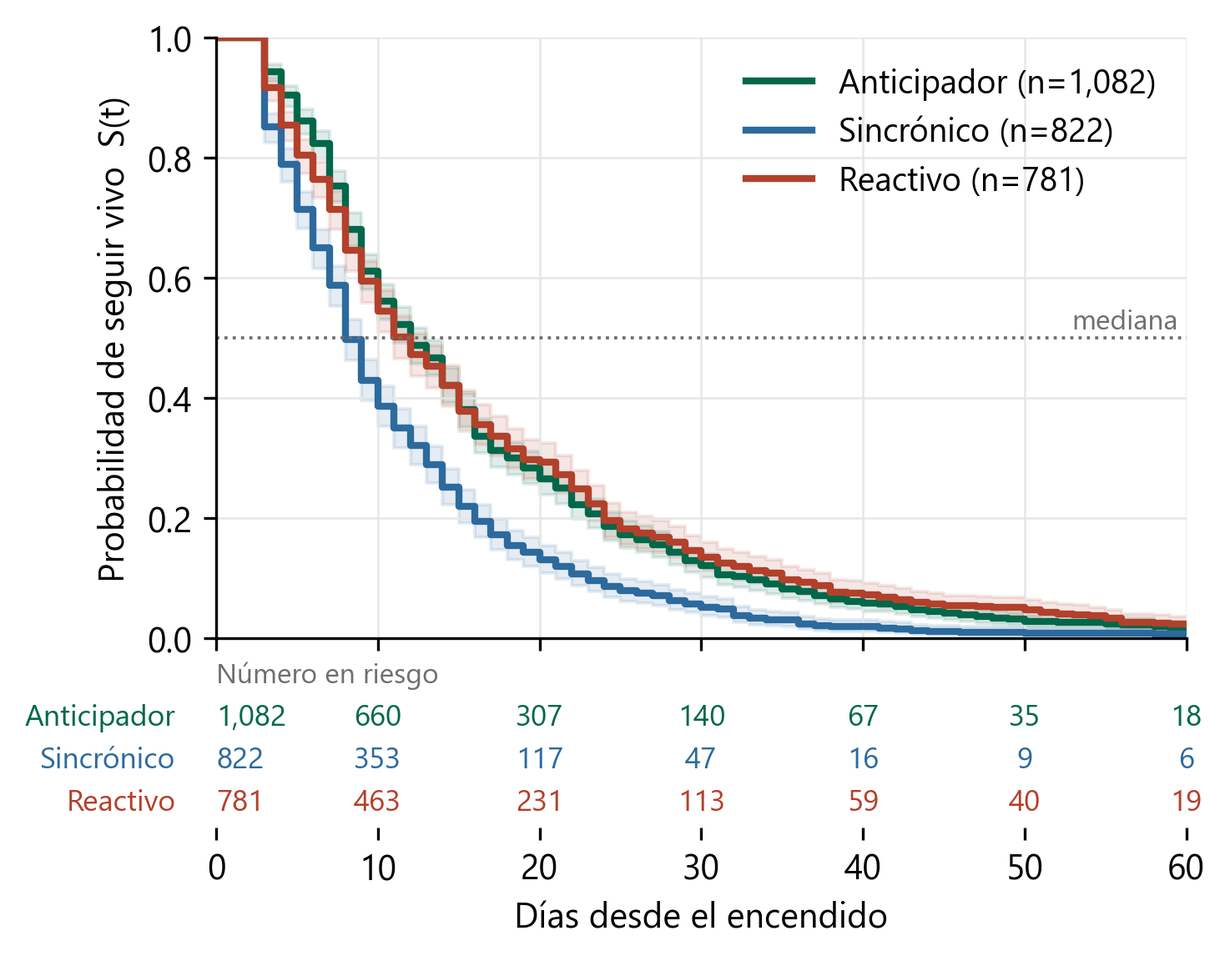
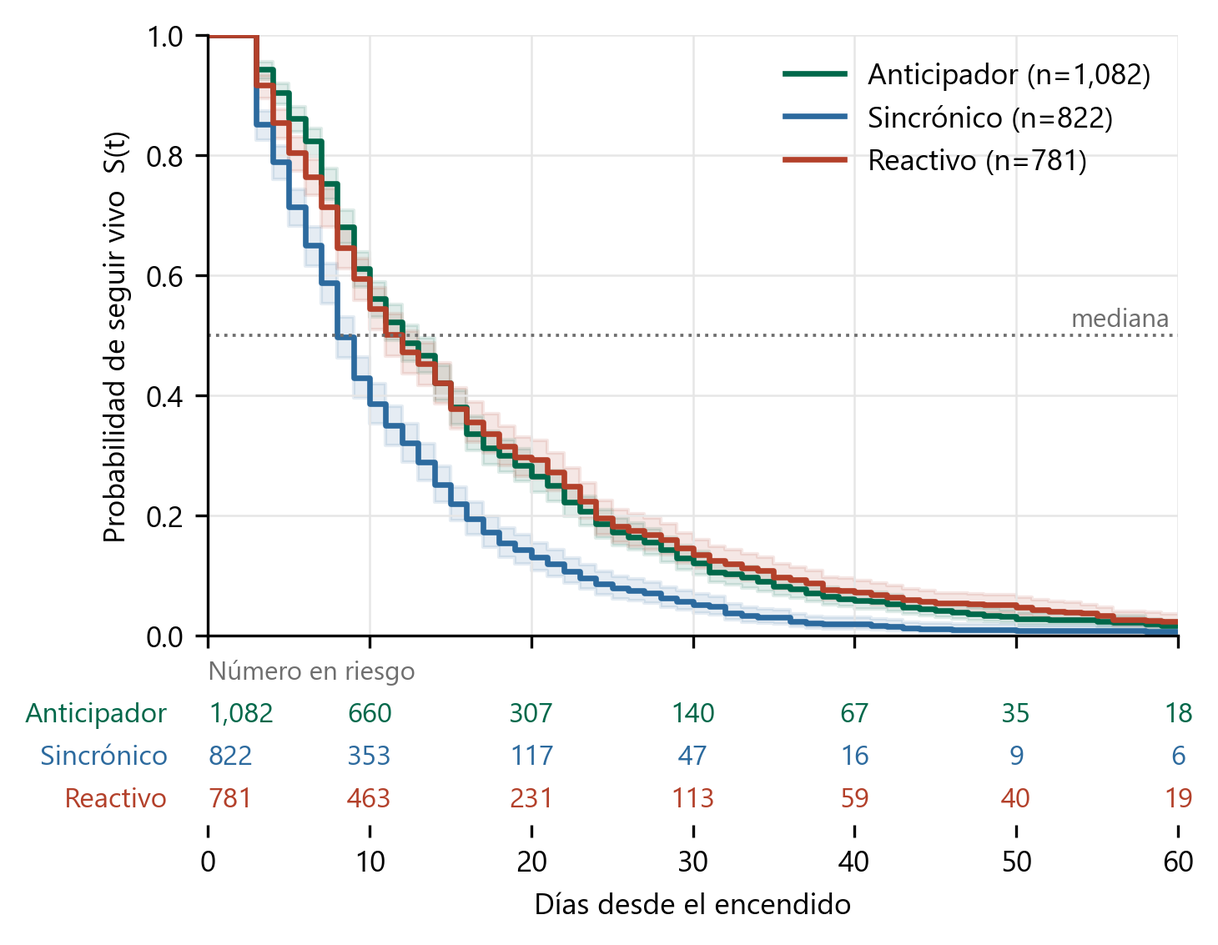
Figuras: letra de ejes y leyendas a 8.5 pt y lineas mas delgadas; fuente_figuras busca Segoe UI en Fonts/

diff --git a/10_figuras_manuscrito/figuras_manuscrito.py b/10_figuras_manuscrito/figuras_manuscrito.py
@@ -46,6 +46,9 @@ sys.path.insert(0, str(Path(__file__).resolve().parents[1] / 'herramientas'))
 from fuente_figuras import fuente_figuras  # Segoe UI si esta en la carpeta local, si no DejaVu Sans (version 064)
 CURSIVA = fuente_figuras()
 plt.rcParams.update({'axes.spines.top': False, 'axes.spines.right': False, 'savefig.dpi': 300})
+# Version 069 (19-oct-2026): letra de ejes y leyendas mas chica y lineas mas delgadas, a pedido del autor.
+# Marcas, rotulos de eje y leyendas a 8.5 pt (antes 10, el valor por omision); rotulos comunes de figura a 10 pt (antes 12).
+plt.rcParams.update({'xtick.labelsize': 8.5, 'ytick.labelsize': 8.5, 'axes.labelsize': 8.5, 'legend.fontsize': 8.5, 'figure.labelsize': 10})
 CIFRAS = []
 # Formato comun (18-oct-2026, version 064): coma de miles en los ejes y fechas en espanol (mes abreviado y ano a dos cifras).
 MESES_ES = ['ene', 'feb', 'mar', 'abr', 'may', 'jun', 'jul', 'ago', 'sep', 'oct', 'nov', 'dic']
@@ -92,15 +95,15 @@ def fig_3_2():
     for j, (tk, titulo) in enumerate([('AAL', 'AAL (ticker típico\ndel padrón)'), ('GME', 'GME (ticker denso\nde la era meme)')]):
         x = s[tk].values.astype(float); mu, sd = x.mean(), x.std(ddof=1); asim = stats.skew(x)
         ax = axs[0, j]; n, bins, _ = ax.hist(x, bins=50, color='#3E8E75', edgecolor='white', lw=0.4)
-        xx = np.linspace(x.min(), x.max(), 400); yy = stats.norm.pdf(xx, mu, sd) * len(x) * (bins[1] - bins[0]); ax.plot(xx[yy >= 0.6], yy[yy >= 0.6], color=ROJO, lw=2, label='normal ajustada')
-        ax.set_yscale('log'); ax.set_ylim(0.6, n.max() * 6); ax.set_title(titulo, color=VERDE2, fontweight='bold', fontsize=11)
+        xx = np.linspace(x.min(), x.max(), 400); yy = stats.norm.pdf(xx, mu, sd) * len(x) * (bins[1] - bins[0]); ax.plot(xx[yy >= 0.6], yy[yy >= 0.6], color=ROJO, lw=1.6, label='normal ajustada')
+        ax.set_yscale('log'); ax.set_ylim(0.6, n.max() * 6); ax.set_title(titulo, color=VERDE2, fontweight='bold', fontsize=9.5)
         ax.xaxis.set_major_locator(MaxNLocator(3)); ax.xaxis.set_major_formatter(MILES)
         ax.set_xlabel('menciones diarias'); ax.set_ylabel('días (escala log)'); ax.legend(frameon=False, loc='upper right', handlelength=1.0, borderaxespad=0.2)
-        ax.text(0.97, 0.72, f'media {mu:,.1f}\nmáximo {int(x.max()):,}\nasimetría {asim:.1f}', transform=ax.transAxes, ha='right', va='top', color=GRIS, fontsize=9)
+        ax.text(0.97, 0.72, f'media {mu:,.1f}\nmáximo {int(x.max()):,}\nasimetría {asim:.1f}', transform=ax.transAxes, ha='right', va='top', color=GRIS, fontsize=8)
         ax = axs[1, j]; (osm, osr), (slope, intercept, _) = stats.probplot(x, dist='norm')
         ax.plot(osm, osr, '.', color=VERDE2, ms=4); ax.plot(osm, slope * osm + intercept, color=ROJO, lw=1.5, label='recta normal\nteórica')
         ax.yaxis.set_major_formatter(MILES)
-        ax.set_title(f'QQ contra la normal: {tk}', color=VERDE2, fontsize=11); ax.set_xlabel('cuantiles teóricos\nde la normal'); ax.set_ylabel('cuantiles observados'); ax.legend(frameon=False, loc='upper left', handlelength=1.0)
+        ax.set_title(f'QQ contra la normal: {tk}', color=VERDE2, fontsize=9.5); ax.set_xlabel('cuantiles teóricos\nde la normal'); ax.set_ylabel('cuantiles observados'); ax.legend(frameon=False, loc='upper left', handlelength=1.0)
         cifra('3.2', f'{tk} media / maximo / asimetria', f'{mu:.1f} / {int(x.max())} / {asim:.1f}')
     fig.tight_layout(); fig.savefig(FIG / 'figura_3_2.png'); plt.close(fig)
 
@@ -120,7 +123,7 @@ def fig_4_2():
     ax.text(fin - pd.Timedelta(hours=12), 1400, f'extinción ({fin.day}-feb)', rotation=90, ha='right', va='center', fontsize=7.5, color='#444444')   # a la izquierda de su linea (version 067)
     ax.text(fin + pd.Timedelta(days=2), tot.max(), f'{int(tot.max()):,} menciones', va='center', fontsize=8, color=ROJO)
     ax.text(pd.Timestamp('2021-02-08'), base / 1.12, f'base previa (μ = {base:,.0f})', va='top', fontsize=7.5, color='#2F5F8F')   # junto a su linea (version 064; desde el 8-feb en la version 067)
-    ax.set_ylabel('Menciones diarias en Reddit\n(escala log)', fontsize=9); ax.grid(color='#E8E8E8', lw=0.6); ax.set_axisbelow(True)
+    ax.set_ylabel('Menciones diarias en Reddit\n(escala log)', fontsize=8.5); ax.grid(color='#E8E8E8', lw=0.6); ax.set_axisbelow(True)
     ax.xaxis.set_major_locator(mdates.MonthLocator()); ax.xaxis.set_major_formatter(FuncFormatter(lambda v, p: mes_anio(mdates.num2date(v))))
     fig.tight_layout(); fig.savefig(FIG / 'figura_4_2.png'); plt.close(fig)
     cifra('4.2', 'pico (fecha, menciones)', f'{tot.idxmax().date()}, {int(tot.max()):,}'); cifra('4.2', 'duracion / menciones acumuladas (catalogo)', f'{ev.duracion_dias} / {int(ev.menciones_evento):,}')
@@ -146,18 +149,18 @@ def fig_4_3():
     ins, t = trayectorias()
     fig, ax = plt.subplots(figsize=(4.72, 4.6))   # antes (8.9, 5.5); version 067: leyenda bajo el grafico, rotulo y y textos en mas lineas
     med = t.groupby('dia').indice.median(); n_act = t.groupby('dia').size()
-    for tk, g in t.groupby('ticker'): ax.plot(g.dia, g.indice, color=VERDE_CLARO, lw=0.8, alpha=0.8, zorder=1)
-    ax.plot(med.index[n_act >= 10], med[n_act >= 10], color=VERDE, lw=3, label='mediana de los eventos activos', zorder=4)
+    for tk, g in t.groupby('ticker'): ax.plot(g.dia, g.indice, color=VERDE_CLARO, lw=0.6, alpha=0.8, zorder=1)   # lineas mas delgadas (version 069)
+    ax.plot(med.index[n_act >= 10], med[n_act >= 10], color=VERDE, lw=2.2, label='mediana de los eventos activos', zorder=4)
     # MSFT en azul (11-oct-2026, version 058) para distinguirla de la mediana verde; los datos no cambian.
     for tk, etiqueta, color in [('GME', 'GME (ene-21)', ROJO), ('MSFT', 'MSFT (precio plano,\n93 días naturales)', '#2F5F8F'), ('BA', 'BA (mar-20, cayendo)', '#8A6D0B')]:
-        g = t[t.ticker == tk]; ax.plot(g.dia, g.indice, color=color, lw=2.2, label=etiqueta, zorder=3)
+        g = t[t.ticker == tk]; ax.plot(g.dia, g.indice, color=color, lw=1.5, label=etiqueta, zorder=3)
     ax.axhline(100, color='#333333', ls=':', lw=1); ax.set_yscale('log'); ax.set_xlim(0, 90)   # el evento de RDDT (247 sesiones) se corta a los 90 dias
     ax.set_yticks([50, 100, 200, 400, 800, 1600]); ax.set_yticklabels(['50', '100', '200', '400', '800', '1,600']); ax.minorticks_off()
     ax.set_xlabel('días de trading desde el encendido del evento'); ax.set_ylabel('índice de retorno acumulado\n(base 100 al encendido, escala log)')
     ax.legend(frameon=False, loc='upper center', bbox_to_anchor=(0.5, -0.16), ncol=2, handlelength=1.5, columnspacing=1.2)
     cierre = t.groupby('ticker').indice.last() - 100; maximo = t.groupby('ticker').indice.max() - 100; caida = (maximo - cierre >= 10).sum()
     ax.text(0.99, 0.99, f'cierre mediano {cierre.median():+.0f} puntos\nmáximo intra-evento mediano {maximo.median():+.0f} puntos\n{caida} de {len(cierre)} eventos cierran al menos\n10 puntos bajo su máximo',
-            transform=ax.transAxes, ha='right', va='top', fontsize=9, color=GRIS)   # arriba a la derecha, zona sin trayectorias (version 067)
+            transform=ax.transAxes, ha='right', va='top', fontsize=8, color=GRIS)   # arriba a la derecha, zona sin trayectorias (version 067)
     fig.tight_layout(); fig.savefig(FIG / 'figura_4_3.png'); plt.close(fig)
     cifra('4.3', 'eventos con trayectoria', len(cierre)); cifra('4.3', 'cierre mediano (puntos)', round(cierre.median(), 1)); cifra('4.3', 'maximo intra-evento mediano (puntos)', round(maximo.median(), 1))
     cifra('4.3', 'cierran >= 10 puntos bajo su maximo', f'{caida} de {len(cierre)}')
@@ -196,7 +199,7 @@ def fig_5_1():
         for j in range(12):
             if not np.isnan(M[i, j]): ax.text(j, i, int(M[i, j]), ha='center', va='center', fontsize=8, color='white' if M[i, j] > 0.6 * np.nanmax(M) else '#333333')
     for s in ax.spines.values(): s.set_visible(False)
-    cb = fig.colorbar(im, ax=ax, fraction=0.04, pad=0.02); cb.set_label('Eventos encendidos')
+    cb = fig.colorbar(im, ax=ax, fraction=0.04, pad=0.02); cb.set_label('Eventos encendidos', fontsize=8); cb.ax.tick_params(labelsize=7.5)   # escala 0 a 300 mas chica (version 069)
     fig.tight_layout(); fig.savefig(FIG / 'figura_5_1.png'); plt.close(fig)
     cifra('5.1', 'mes maximo', f'{int(m.stack().idxmax()[0])}-{int(m.stack().idxmax()[1]):02d} con {int(m.values.max())} encendidos'); cifra('5.1', 'total', int(m.values.sum()))
 
@@ -209,8 +212,8 @@ COCIENTES_5_5 = {'Reddit': 4.2, 'YouTube': 6.0, 'TikTok': 6.2, 'StockTwits': 6.9
 def fig_5_6():
     plats = list(COCIENTES_5_5); vals = [COCIENTES_5_5[p] for p in plats]
     fig, ax = plt.subplots(figsize=(4.72, 2.9))   # antes (6.1, 3.2); version 067
-    ax.scatter(vals, range(len(plats)), s=140, color=VERDE2, zorder=3)
-    for i, v in enumerate(vals): ax.text(v + 0.55, i, f'{v:.1f}', va='center', fontsize=9)   # separacion 0.55 (antes 0.3) para no tocar el punto (version 067)
+    ax.scatter(vals, range(len(plats)), s=110, color=VERDE2, zorder=3)
+    for i, v in enumerate(vals): ax.text(v + 0.55, i, f'{v:.1f}', va='center', fontsize=8.5)   # separacion 0.55 (antes 0.3) para no tocar el punto (version 067)
     ax.axvline(1, color='#333333', ls=':', lw=1); ax.text(1, len(plats) - 0.55, 'paridad', ha='center', va='bottom', fontsize=7, color=GRIS)
     ax.set_yticks(range(len(plats))); ax.set_yticklabels(plats, color=GRIS); ax.set_xlim(0, 16.5); ax.grid(color='#E8E8E8', lw=0.8); ax.set_axisbelow(True)
     ax.set_xlabel('Mensajes de compra por cada mensaje de venta')
@@ -224,8 +227,8 @@ def fig_6_1():
     fig, ax = plt.subplots(figsize=(4.72, 2.4))   # antes (5.9, 2.7); version 067
     for i, r in enumerate(d.itertuples()):
         hr, lo, hi = r._4, r._8, r._9
-        ax.plot([lo, hi], [i, i], color=VERDE2, lw=2.2); ax.plot(hr, i, 'o', color=ROJO, ms=9)
-        ax.text(hi + 0.08, i, f'{hr:.2f} [{lo:.2f}, {hi:.2f}]', va='center', fontsize=9)
+        ax.plot([lo, hi], [i, i], color=VERDE2, lw=1.8); ax.plot(hr, i, 'o', color=ROJO, ms=7.5)
+        ax.text(hi + 0.08, i, f'{hr:.2f} [{lo:.2f}, {hi:.2f}]', va='center', fontsize=8.5)
         cifra('6.1', f'HR de D, kappa {r.kappa:.2f}', f'{hr:.2f} [{lo:.2f}, {hi:.2f}]')
     ax.axvline(1, color='#444444', ls='--', lw=1); ax.set_yticks(range(3)); ax.set_yticklabels([f'κ = {v:.2f}' for v in d.kappa], color=GRIS)
     ax.set_xlim(0.8, 4.4); ax.set_xlabel('HR del desacuerdo D (IC 95%)'); ax.grid(color='#E8E8E8', lw=0.8); ax.set_axisbelow(True)
@@ -240,13 +243,13 @@ def _hist_20(cols, salida, figura):
         bins = np.linspace(0, max(lx.max(), 0.31), 26)
         ax.hist(lx, bins=bins, color=VERDE2, edgecolor='white', lw=0.3); ax.set_yscale('log'); ax.set_ylim(0.7, None)
         # Version 067: ticker (a la izquierda, sobre las marcas del eje y) y asimetria (a la derecha) en una linea sobre el panel, no sobre las barras
-        ax.annotate(tk, xy=(0, 1), xycoords='axes fraction', xytext=(-20, 4), textcoords='offset points', ha='left', va='bottom', color=VERDE2, fontweight='bold', fontsize=10)
-        ax.annotate(f'asim. {asim:.0f}', xy=(1, 1), xycoords='axes fraction', xytext=(0, 4), textcoords='offset points', ha='right', va='bottom', color=GRIS, fontsize=8.5)
+        ax.annotate(tk, xy=(0, 1), xycoords='axes fraction', xytext=(-20, 4), textcoords='offset points', ha='left', va='bottom', color=VERDE2, fontweight='bold', fontsize=8.5)
+        ax.annotate(f'asim. {asim:.0f}', xy=(1, 1), xycoords='axes fraction', xytext=(0, 4), textcoords='offset points', ha='right', va='bottom', color=GRIS, fontsize=7.5)
         # Marcas del eje segun el rango, para que no se encimen ni queden barras sin referencia (version 064)
         # Version 067: menos marcas (sin el 1 cuando el rango pasa de 100, sin el 100 cuando pasa de 1,000) y potencias de 10 como en el eje y
         tope = 10 ** bins[-1] - 1; cand = [0, 100, 10000] if tope >= 10000 else [0, 10, 1000] if tope >= 1000 else [0, 10, 100] if tope >= 100 else ([0, 1, 10] if tope >= 10 else [0, 1, 2, 5])
-        ticks = [v for v in cand if np.log10(1 + v) <= bins[-1] + 1e-9]; ax.set_xticks([np.log10(1 + v) for v in ticks]); ax.set_xticklabels([{100: '10²', 1000: '10³', 10000: '10⁴'}.get(v, f'{v:,}') for v in ticks], fontsize=7.5)
-        ax.set_yticks([1, 10, 100, 1000]); ax.set_yticklabels(['1', '10', '10²', '10³'], fontsize=8); ax.minorticks_off(); ax.grid(axis='y', color='#EEEEEE', lw=0.6); ax.set_axisbelow(True)
+        ticks = [v for v in cand if np.log10(1 + v) <= bins[-1] + 1e-9]; ax.set_xticks([np.log10(1 + v) for v in ticks]); ax.set_xticklabels([{100: '10²', 1000: '10³', 10000: '10⁴'}.get(v, f'{v:,}') for v in ticks], fontsize=7)
+        ax.set_yticks([1, 10, 100, 1000]); ax.set_yticklabels(['1', '10', '10²', '10³'], fontsize=7); ax.minorticks_off(); ax.grid(axis='y', color='#EEEEEE', lw=0.6); ax.set_axisbelow(True)
         cifra(figura, f'{tk} asimetria', round(asim, 1))
     fig.supxlabel('Menciones diarias (escala logarítmica, 1 + menciones)'); fig.supylabel('Días (escala logarítmica)')
     fig.tight_layout(); fig.savefig(FIG / salida); plt.close(fig)

diff --git a/05_precios_y_supervivencia/figuras_supervivencia.py b/05_precios_y_supervivencia/figuras_supervivencia.py
@@ -20,6 +20,8 @@ import sys; sys.path.insert(0, str(Path(__file__).resolve().parents[1] / 'herram
 from fuente_figuras import fuente_figuras  # Segoe UI si esta en la carpeta local, si no DejaVu Sans (version 064)
 fuente_figuras()
 plt.rcParams.update({'axes.spines.top': False, 'axes.spines.right': False})
+# Version 069 (19-oct-2026): letra de ejes y leyendas mas chica y lineas mas delgadas, a pedido del autor.
+plt.rcParams.update({'xtick.labelsize': 8.5, 'ytick.labelsize': 8.5, 'axes.labelsize': 8.5})
 
 # --- Figura 5.3: Kaplan-Meier por acoplamiento, bandas de Greenwood y numero en riesgo ---------------------------------------
 sup = pd.read_csv(SUP / 'tabla_supervivencia.csv', keep_default_na=False, na_values=[''])
@@ -30,18 +32,18 @@ ax = fig.add_subplot(gs[0]); axr = fig.add_subplot(gs[1], sharex=ax)
 kms, ticks = {}, np.arange(0, 61, 10)
 for g, etiqueta, color in GRUPOS:
     d = sup[sup.acoplamiento == g]; km = KaplanMeierFitter().fit(d.duracion_dias, d.evento_observado, label=f'{etiqueta} (n={len(d):,})')
-    km.plot_survival_function(ax=ax, color=color, ci_show=True, ci_alpha=0.12, linewidth=2.0); kms[g] = (km, d, color, etiqueta)
-ax.axhline(0.5, color=GRIS, linestyle=':', linewidth=0.9); ax.text(59.5, 0.515, 'mediana', color=GRIS, fontsize=8, ha='right')
-ax.set_xlim(0, 60); ax.set_ylim(0, 1.0); ax.set_ylabel('Probabilidad de seguir vivo  S(t)', fontsize=10); ax.set_xlabel('')
-ax.grid(axis='both', color='#E6E6E6', linewidth=0.6); ax.legend(frameon=False, fontsize=9.5, loc='upper right'); plt.setp(ax.get_xticklabels(), visible=False)
-axr.set_ylim(-0.6, 3.4); axr.set_yticks([]); axr.set_xticks(ticks); axr.set_xlabel('Días desde el encendido', fontsize=10)
+    km.plot_survival_function(ax=ax, color=color, ci_show=True, ci_alpha=0.12, linewidth=1.6); kms[g] = (km, d, color, etiqueta)
+ax.axhline(0.5, color=GRIS, linestyle=':', linewidth=0.9); ax.text(59.5, 0.515, 'mediana', color=GRIS, fontsize=7.5, ha='right')
+ax.set_xlim(0, 60); ax.set_ylim(0, 1.0); ax.set_ylabel('Probabilidad de seguir vivo  S(t)', fontsize=8.5); ax.set_xlabel('')
+ax.grid(axis='both', color='#E6E6E6', linewidth=0.6); ax.legend(frameon=False, fontsize=8.5, loc='upper right'); plt.setp(ax.get_xticklabels(), visible=False)
+axr.set_ylim(-0.6, 3.4); axr.set_yticks([]); axr.set_xticks(ticks); axr.set_xlabel('Días desde el encendido', fontsize=8.5)
 for s_ in ['left', 'top', 'right', 'bottom']: axr.spines[s_].set_visible(False)
-axr.text(0, 3.0, 'Número en riesgo', color=GRIS, fontsize=8, va='center', ha='left')
+axr.text(0, 3.0, 'Número en riesgo', color=GRIS, fontsize=7.5, va='center', ha='left')
 for fila, (g, etiqueta, color) in enumerate(GRUPOS):
     km, d, color, etiqueta = kms[g]; y = 2 - fila
-    axr.text(-2.5, y, etiqueta, color=color, fontsize=8.5, ha='right', va='center', clip_on=False)
+    axr.text(-2.5, y, etiqueta, color=color, fontsize=8, ha='right', va='center', clip_on=False)
     for t in ticks:
-        en_riesgo = int((d.duracion_dias >= t).sum()) if t > 0 else len(d); axr.text(t, y, f'{en_riesgo:,}', color=color, fontsize=8.5, ha='center' if t > 0 else 'left', va='center', clip_on=False)
+        en_riesgo = int((d.duracion_dias >= t).sum()) if t > 0 else len(d); axr.text(t, y, f'{en_riesgo:,}', color=color, fontsize=8, ha='center' if t > 0 else 'left', va='center', clip_on=False)
 fig.savefig(FIG / 'figura_km_acoplamiento_v2.png', dpi=300, bbox_inches='tight'); plt.close(fig)
 medianas = {g: kms[g][0].median_survival_time_ for g, _, _ in GRUPOS}; print('KM medianas:', medianas)
 
@@ -61,9 +63,9 @@ for i, (cov, nombre) in enumerate(NOMBRE):
         ax.plot(r['exp(coef)'], y0 + dy, marker=marca, color=color, markersize=6, linestyle='none', label=etiqueta if i == 0 else None)
 ax.axvline(1, color='#333333', linestyle='--', linewidth=1); ax.set_xscale('log')
 ax.set_xticks([0.5, 0.7, 1.0, 1.5, 2.0, 3.0]); ax.xaxis.set_major_formatter(matplotlib.ticker.FormatStrFormatter('%.1f')); ax.xaxis.set_minor_formatter(matplotlib.ticker.NullFormatter()); ax.set_xlim(0.5, 3.0)
-ax.set_yticks(range(len(NOMBRE))); ax.set_yticklabels([n for _, n in NOMBRE][::-1], fontsize=9.5); ax.grid(axis='y', color='#E6E6E6', linewidth=0.6)
-ax.set_xlabel('Hazard ratio (escala log, IC 95%)', fontsize=10)
-ax.text(0.72, len(NOMBRE) + 0.02, '← retrasa\nla extinción', color=VERDE, fontsize=9, ha='center', va='center'); ax.text(1.75, len(NOMBRE) + 0.02, 'acelera\nla extinción →', color=ROJO, fontsize=9, ha='center', va='center')
-ax.set_ylim(-0.6, len(NOMBRE) + 0.55); ax.legend(frameon=False, fontsize=9, loc='lower right')
+ax.set_yticks(range(len(NOMBRE))); ax.set_yticklabels([n for _, n in NOMBRE][::-1], fontsize=8.5); ax.grid(axis='y', color='#E6E6E6', linewidth=0.6)
+ax.set_xlabel('Hazard ratio (escala log, IC 95%)', fontsize=8.5)
+ax.text(0.72, len(NOMBRE) + 0.02, '← retrasa\nla extinción', color=VERDE, fontsize=8, ha='center', va='center'); ax.text(1.75, len(NOMBRE) + 0.02, 'acelera\nla extinción →', color=ROJO, fontsize=8, ha='center', va='center')
+ax.set_ylim(-0.6, len(NOMBRE) + 0.55); ax.legend(frameon=False, fontsize=8, loc='lower right')
 fig.savefig(FIG / 'figura_forest_cox_v2.png', dpi=300, bbox_inches='tight'); plt.close(fig)
 print('guardado: Figuras/figura_km_acoplamiento_v2.png y figura_forest_cox_v2.png')

diff --git a/05_precios_y_supervivencia/perfil_temporal_D.py b/05_precios_y_supervivencia/perfil_temporal_D.py
@@ -114,23 +114,25 @@ print('\ncomparacion de modelos (misma tabla):'); print(modelos.round(2).to_stri
 
 # --- 5. figura de dos paneles ------------------------------------------------------------------------------------
 ROJO, VERDE, GRIS = '#A63A2E', '#00684A', '#9A9A9A'
+# Version 069 (19-oct-2026): letra de ejes y leyendas mas chica y lineas mas delgadas, a pedido del autor.
+plt.rcParams.update({'xtick.labelsize': 8.5, 'ytick.labelsize': 8.5, 'axes.labelsize': 8.5})
 fig, (ax, ax2) = plt.subplots(2, 1, figsize=(4.9, 4.1), sharex=True, gridspec_kw={'height_ratios': [3, 1.3], 'hspace': 0.08})
 c = curva[curva.t <= T_MAX]
 ax.axvspan(0.5, primer_dia_con_muertes - 0.5, color=GRIS, alpha=0.18, lw=0)
 ax.annotate(f'días 1 a {primer_dia_con_muertes - 1}: sin muertes observadas,\nla curva es extrapolación', xy=(primer_dia_con_muertes - 0.6, 7.5), xytext=(primer_dia_con_muertes + 5.5, 8.3),
-            ha='left', va='center', fontsize=8.5, color='#555555', arrowprops={'arrowstyle': '->', 'color': '#777777', 'lw': 1})
+            ha='left', va='center', fontsize=8, color='#555555', arrowprops={'arrowstyle': '->', 'color': '#777777', 'lw': 1})
 ax.fill_between(c.t, c.lo95, c.hi95, color=ROJO, alpha=0.15, lw=0, label='banda 95% (método delta)')
-ax.plot(c.t, c.HR, color=ROJO, lw=2.2, label='HR(t) = exp(β + γ·log t), interacción con log(t)')
+ax.plot(c.t, c.HR, color=ROJO, lw=1.8, label='HR(t) = exp(β + γ·log t), interacción con log(t)')
 for _, r in tramos.iterrows():
     a, b = r.desde, min(r.hasta, T_MAX); x = (a + b) / 2
-    ax.errorbar(x, r.HR, yerr=[[r.HR - r.lo95], [r.hi95 - r.HR]], fmt='o', color=VERDE, ecolor=VERDE, elinewidth=1.6, capsize=4, ms=7, zorder=5)
+    ax.errorbar(x, r.HR, yerr=[[r.HR - r.lo95], [r.hi95 - r.HR]], fmt='o', color=VERDE, ecolor=VERDE, elinewidth=1.4, capsize=3.5, ms=6, zorder=5)
     ax.hlines(r.HR, a - 0.4, b + 0.4, color=VERDE, lw=1.2, alpha=0.7)
-    ax.text(x, r.hi95 * 1.06, f'{r.HR:.2f}', ha='center', va='bottom', fontsize=9, color=VERDE)
+    ax.text(x, r.hi95 * 1.06, f'{r.HR:.2f}', ha='center', va='bottom', fontsize=8, color=VERDE)
 ax.errorbar([], [], yerr=[], fmt='o', color=VERDE, label='HR de D por tramos de edad, con IC 95% (sin forma impuesta)')
 ax.axhline(1, color='#333333', ls='--', lw=1)
 ax.set_yscale('log'); ax.set_yticks([0.5, 1, 2, 3, 5, 10]); ax.set_yticklabels(['0.5', '1', '2', '3', '5', '10'])
 ax.set_ylim(0.45, 11); ax.set_xlim(0.5, T_MAX + 0.5)
-ax.set_ylabel('HR del desacuerdo D (escala log)'); ax.legend(loc='lower left', bbox_to_anchor=(-0.02, 1.0), borderaxespad=0.2, fontsize=8.5, frameon=False)   # arriba del panel (version 067)
+ax.set_ylabel('HR del desacuerdo D (escala log)'); ax.legend(loc='lower left', bbox_to_anchor=(-0.02, 1.0), borderaxespad=0.2, fontsize=8, frameon=False)   # arriba del panel (version 067)
 ax.grid(alpha=0.25); ax.spines[['top', 'right']].set_visible(False)
 rr = riesgo[riesgo.t <= T_MAX]
 ax2.bar(rr.t, rr.muertes, color=ROJO, alpha=0.8, width=0.8, label='muertes en el día')
@@ -138,7 +140,7 @@ ax2.set_ylabel('muertes'); ax2.set_xlabel('Edad del evento (días; 1 = día del 
 ax3 = ax2.twinx(); ax3.plot(rr.t, rr.en_riesgo, color=VERDE, lw=1.6, label='eventos en riesgo'); ax3.set_ylabel('en riesgo', color=VERDE)
 ax3.yaxis.set_major_formatter(matplotlib.ticker.FuncFormatter(lambda v, p: f'{v:,.0f}'))   # coma de miles (version 064)
 ax2.axvspan(0.5, primer_dia_con_muertes - 0.5, color=GRIS, alpha=0.18, lw=0)
-h1, l1 = ax2.get_legend_handles_labels(); h2, l2 = ax3.get_legend_handles_labels(); ax2.legend(h1 + h2, l1 + l2, loc='upper right', fontsize=8.5, frameon=False)
+h1, l1 = ax2.get_legend_handles_labels(); h2, l2 = ax3.get_legend_handles_labels(); ax2.legend(h1 + h2, l1 + l2, loc='upper right', fontsize=8, frameon=False)
 ax2.grid(alpha=0.25); ax2.spines[['top']].set_visible(False); ax3.spines[['top']].set_visible(False)
 FIG.mkdir(exist_ok=True)
 fig.savefig(FIG / 'figura_perfil_hr_desacuerdo_v2.png', dpi=300, bbox_inches='tight'); plt.close(fig)

diff --git a/herramientas/conciliacion_cifras.py b/herramientas/conciliacion_cifras.py
@@ -264,12 +264,14 @@ import sys; sys.path.insert(0, str(Path(__file__).resolve().parents[1] / 'herram
 from fuente_figuras import fuente_figuras  # Segoe UI si esta en la carpeta local, si no DejaVu Sans (version 064)
 fuente_figuras()
 k = pd.read_csv(EV / 'careo_plataformas_kappa.csv')
+# Version 069 (19-oct-2026): letra de ejes y leyendas mas chica y lineas mas delgadas, a pedido del autor.
+plt.rcParams.update({'xtick.labelsize': 8.5, 'ytick.labelsize': 8.5, 'axes.labelsize': 8.5})
 fig, ax = plt.subplots(figsize=(4.75, 3.8), dpi=300)   # 9 x 5 y dpi 200 hasta la version 066
 for nombre, careo, color, marca in [('TikTok', 'TikTok-Reddit por evento', '#C0392B', 'o'), ('Instagram', 'Instagram-Reddit por evento', '#2E6DA4', 's'), ('YouTube', 'YouTube-Reddit por evento', '#00684A', '^')]:
     s = k[(k.careo == careo) & (k.umbral_direccionales.isin([3, 5, 10]))].sort_values('umbral_direccionales')
     ns = '/'.join(str(int(x)) for x in s.unidades_ambos_no_cero)
-    ax.plot([0, 1, 2], 100 * s.acuerdo_observado, color=color, marker=marca, lw=2, ms=8, label=f'{nombre}, observado (n = {ns})')
-    ax.plot([0, 1, 2], 100 * s.acuerdo_esperado, color=color, ls='--', lw=1.5, alpha=.8, label=f'{nombre}, esperado por prevalencias')
+    ax.plot([0, 1, 2], 100 * s.acuerdo_observado, color=color, marker=marca, lw=1.6, ms=6.5, label=f'{nombre}, observado (n = {ns})')
+    ax.plot([0, 1, 2], 100 * s.acuerdo_esperado, color=color, ls='--', lw=1.2, alpha=.8, label=f'{nombre}, esperado por prevalencias')
 ax.set_xticks([0, 1, 2]); ax.set_xticklabels(['≥ 3 direccionales', '≥ 5', '≥ 10']); ax.set_ylim(60, 101); ax.set_ylabel('Acuerdo de signo con Reddit (%)')
 ax.grid(alpha=.3); ax.spines[['top', 'right']].set_visible(False)
 h, l = ax.get_legend_handles_labels(); orden = [0, 2, 4, 1, 3, 5]   # columna 1: observado; columna 2: esperado (version 067)

diff --git a/herramientas/fuente_figuras.py b/herramientas/fuente_figuras.py
@@ -1,6 +1,6 @@
 # fuente_figuras.py - tipografia comun de las figuras de la tesis (version 064, 18-oct-2026).
 # El documento usa Segoe UI. Sus archivos tienen licencia de Microsoft (Segoe_EULA.txt) y no se versionan: este modulo los
-# busca en $TESIS_FUENTES o en $TESIS_BASE/Segoe-fonts-Microsoft (segoeui.ttf, segoeuib.ttf, seguisb.ttf) y, si no estan,
+# busca en $TESIS_FUENTES, en $TESIS_BASE/Segoe-fonts-Microsoft o en $TESIS_BASE/Fonts/Segoe-fonts-Microsoft (segoeui.ttf, segoeuib.ttf, seguisb.ttf) y, si no estan,
 # deja DejaVu Sans, la letra que trae matplotlib. Asi cualquier persona regenera las figuras con los mismos datos y trazos;
 # solo cambia la letra.
 # Con Segoe UI: la carpeta local no trae cursivas, por lo que los rotulos que eran cursivos quedan rectos (CURSIVA = 'normal').
@@ -21,7 +21,11 @@ ARCHIVOS = ('segoeui.ttf', 'segoeuib.ttf', 'seguisb.ttf')
 def carpeta_segoe():
     if os.environ.get('TESIS_FUENTES'):
         return Path(os.environ['TESIS_FUENTES'])
-    return Path(os.environ.get('TESIS_BASE', '/Users/ppizam/Claude/Master Thesis')) / 'Segoe-fonts-Microsoft'
+    base = Path(os.environ.get('TESIS_BASE', '/Users/ppizam/Claude/Master Thesis'))
+    for d in (base / 'Segoe-fonts-Microsoft', base / 'Fonts' / 'Segoe-fonts-Microsoft'):   # Fonts/ desde el 19-oct-2026 (version 069)
+        if (d / 'segoeui.ttf').exists():
+            return d
+    return base / 'Segoe-fonts-Microsoft'
 
 
 def fuente_figuras(verbose=True):

diff --git a/10_figuras_manuscrito/README.md b/10_figuras_manuscrito/README.md
@@ -12,5 +12,6 @@
 - Tipografía (versión 064, 18-oct-2026): las 18 figuras de la tesis usan Segoe UI, la letra del documento, mediante `herramientas/fuente_figuras.py`. Segoe UI tiene licencia de Microsoft y sus archivos no se versionan: el módulo los lee de `$TESIS_BASE/Segoe-fonts-Microsoft` (o de `$TESIS_FUENTES`) y, si no están, las figuras salen con DejaVu Sans, con los mismos datos y trazos. Esa carpeta no trae cursivas de Segoe UI, por lo que con Segoe los rótulos que eran cursivos quedan rectos. Desde la versión 066 las fórmulas de las figuras (Figuras 3.1 y H.1) van en Computer Modern, que trae matplotlib y tiene el mismo diseño que Latin Modern Math de las ecuaciones del documento; la letra de la Figura H.1 es 20% mayor para que impresa mida unos 7.5 pt.
 - Formato (versión 068, 18-oct-2026): la tesis se entrega en tamaño carta y la imprenta la reduce al tamaño normalizado de tesis del ITAM, 17 x 22.5 cm (78.7%). Todas las figuras se redibujaron para imprimirse a 12.0 cm de ancho con la letra en su tamaño real (texto principal de 7 pt o más, anotaciones secundarias de 6 pt o más); en el documento carta van a 15.24 cm, que tras la reducción quedan en 12.0 cm. Se guardan a 300 dpi (la Figura 3.1 a 250 dpi). Los datos, cifras, textos y colores no cambiaron; los cambios de cada figura están en el comentario de cabecera de su script.
 - Figura 5.2 (versión 069, 19-oct-2026): las 50 trayectorias pasan de dos imágenes de 5 x 5 a tres imágenes de cuatro columnas (20, 20 y 10 eventos: `figura_E3_a.png`, `figura_E3_b.png` y `figura_E3_c.png`), para que cada gráfica sea más ancha; el ticker y su fecha van en una línea a 8 pt (antes dos líneas a 9 pt). Los datos no cambian.
+- Letra y líneas (versión 069, 19-oct-2026): en las figuras con ejes (2.1, 3.2, 3.3, 4.2, 4.3, 5.1, 5.3 a 5.7, 6.1 y D.1) las marcas, los rótulos de eje y las leyendas bajan a 8.5 pt (antes 10, el valor por omisión de matplotlib), los rótulos comunes de 3.3 y D.1 a 10 pt, la escala de color de 5.1 a 7.5 pt, el ticker de 3.3 y D.1 a 8.5 pt y las líneas de 4.3, 5.3, 5.5, 5.6 y 6.1 son más delgadas. Los diagramas (3.1, 4.1, 4.4 y H.1) y la 5.2 no cambian. `herramientas/fuente_figuras.py` busca Segoe UI también en `$TESIS_BASE/Fonts/Segoe-fonts-Microsoft`.
 
 Dependencias: pandas, numpy, matplotlib, scipy (versiones en `05_precios_y_supervivencia/requirements.txt` y `04_clasificador/requirements.txt`; inventarios en `herramientas/`).
